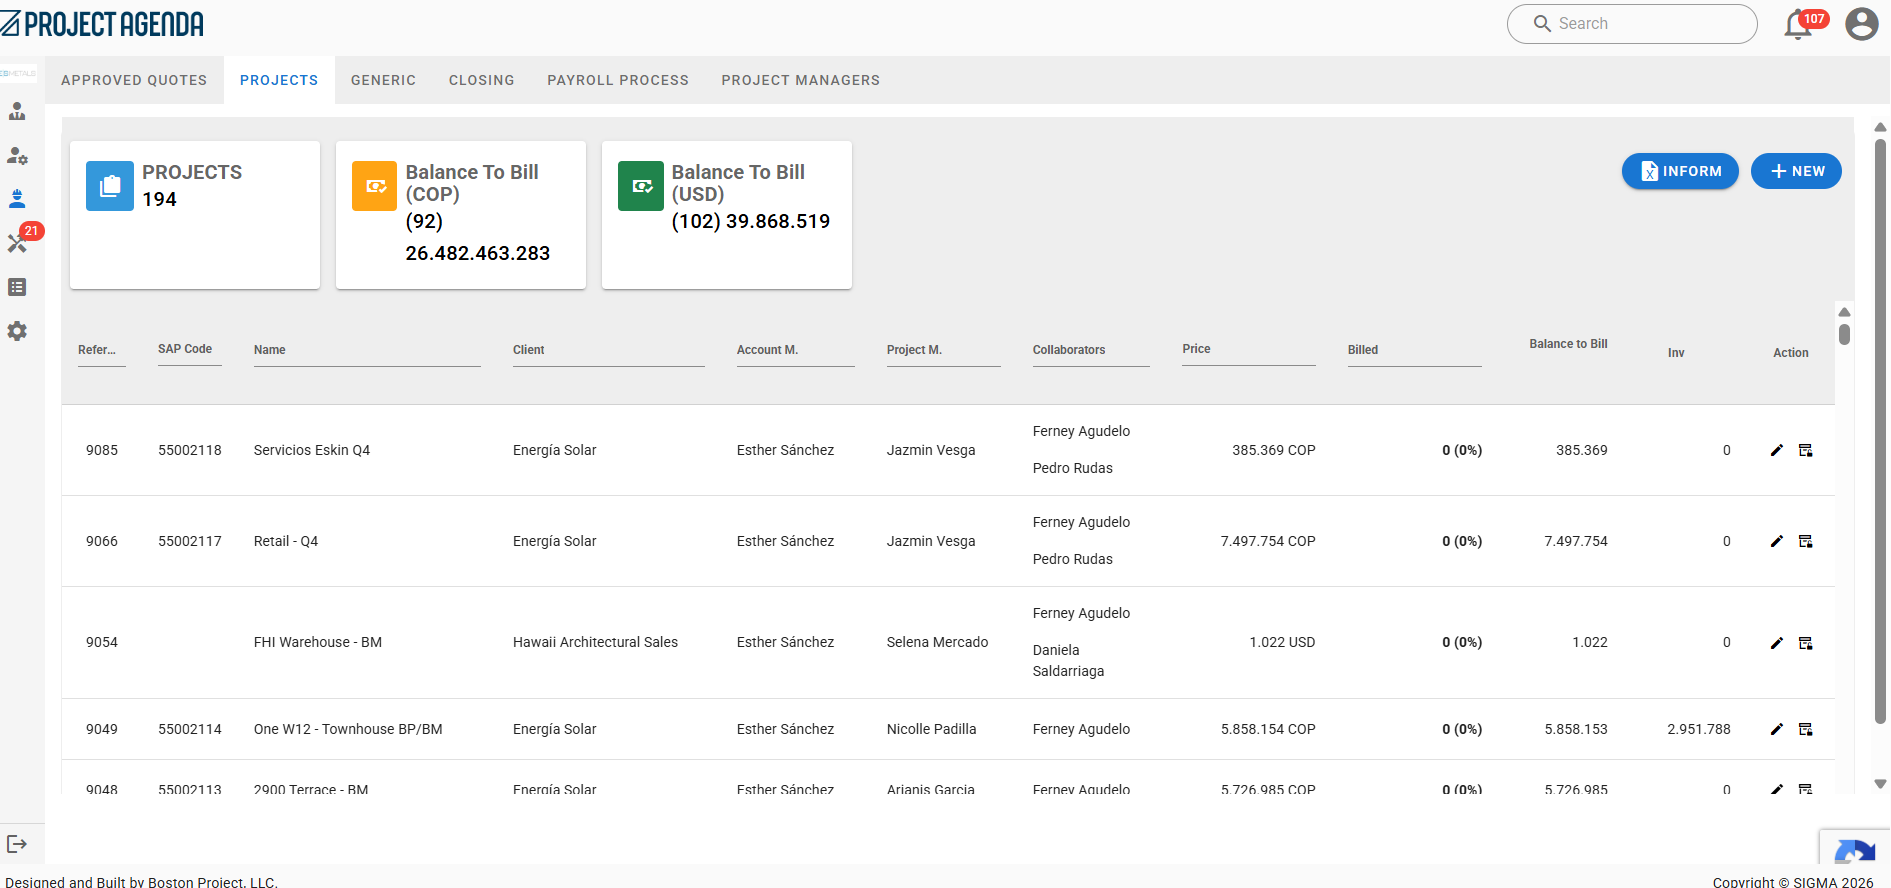
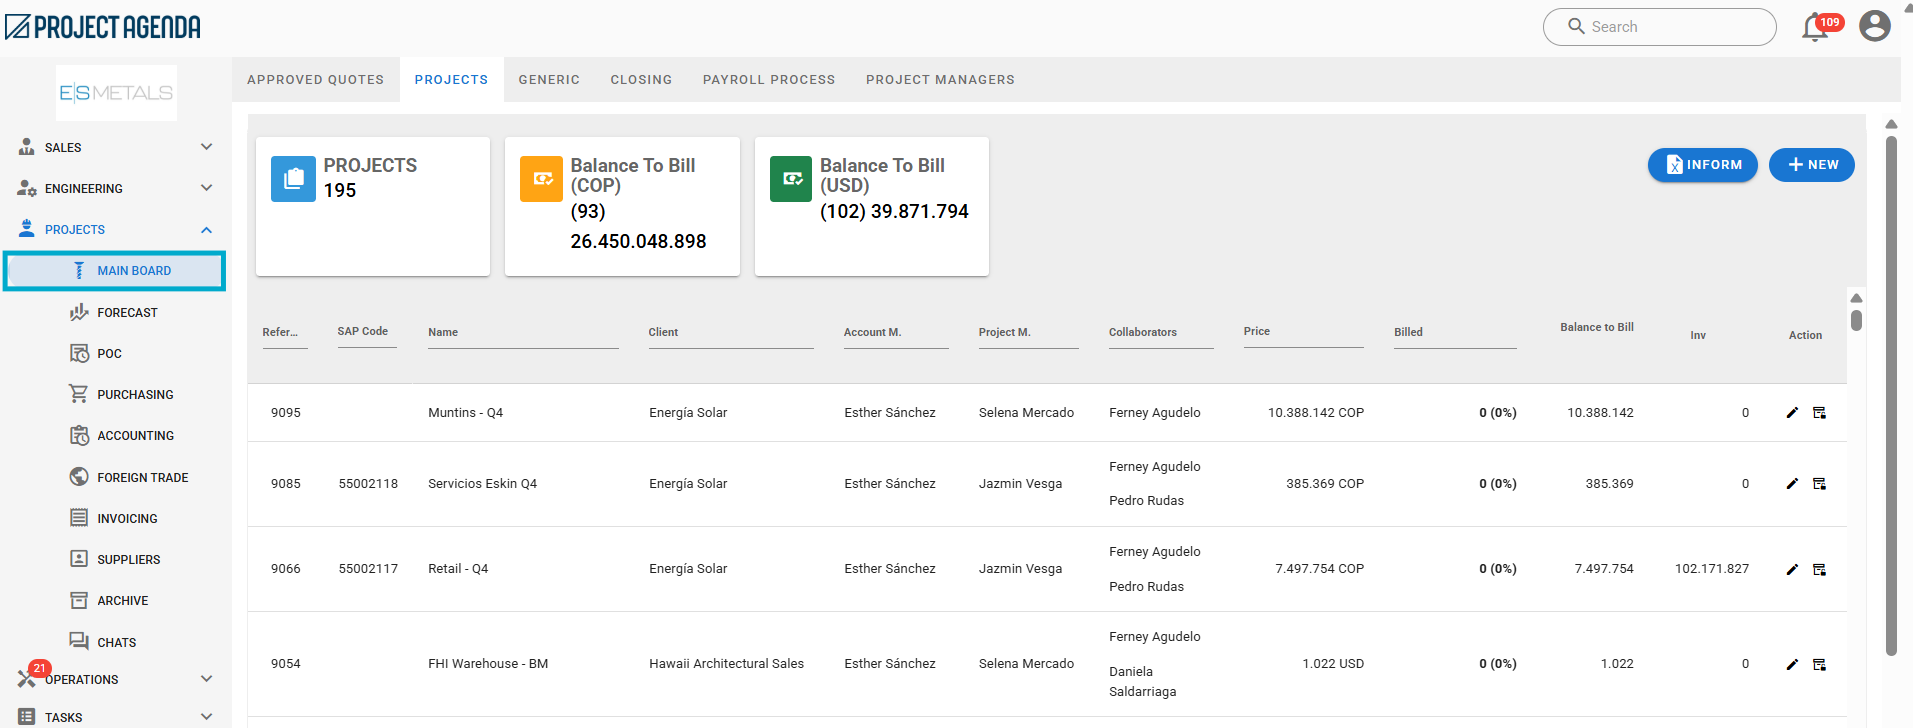
Reemplazar las capturas de Gestión de Proyectos
Nuevo juego de ocho capturas tomadas de la guía del ecosistema: asignación de
ingenieros, main board, detalle del proyecto, work orders y su detalle con
planos, forecast, solicitudes de compra e indicadores.

diff --git a/contenido/contenido.js b/contenido/contenido.js
@@ -26,7 +26,7 @@ window.ESM_CONTENIDO = {
      conservando el mismo nombre de archivo. Obliga a los navegadores a
      descargar la versión nueva en vez de mostrar la que tenían guardada.
      ---------------------------------------------------------------------- */
-  version: "2026-09-09",
+  version: "2026-09-09b",
 
   /* ----------------------------------------------------------------------
      1. MARCA
@@ -187,22 +187,22 @@ window.ESM_CONTENIDO = {
                Para agregar otra: copie un bloque { archivo, titulo } y ponga
                una coma al final del anterior. */
             imagenes: [
-              { archivo: "medios/imagenes/pa-gp-01-asignacion-ingenieria.png",
-                titulo:  "Asignación de pendientes · área de Ingeniería, con la carga horaria de cada ingeniero" },
+              { archivo: "medios/imagenes/pa-gp-01-asignacion-ingenieros.png",
+                titulo:  "Asignación de ingenieros · pendientes por asignar y carga horaria semanal de cada ingeniero" },
               { archivo: "medios/imagenes/pa-gp-02-main-board-proyectos.png",
-                titulo:  "Main Board de proyectos · saldo por facturar en COP y USD" },
+                titulo:  "Main Board de proyectos · precio, facturado y saldo por facturar de cada proyecto, en COP y USD" },
               { archivo: "medios/imagenes/pa-gp-03-detalle-proyecto.png",
-                titulo:  "Detalle del proyecto · cliente, account manager, project manager y colaboradores" },
-              { archivo: "medios/imagenes/pa-gp-04-gestion-compras.png",
-                titulo:  "Gestión de compras · solicitudes, ítems, responsables y estado" },
-              { archivo: "medios/imagenes/pa-gp-05-work-orders.png",
-                titulo:  "Generación de Work Orders · el sistema almacena los planos y los detalles de fabricación de cada pieza (PDF, DXF, STP) con su ruta de procesos" },
-              { archivo: "medios/imagenes/pa-gp-06-estado-work-orders.png",
-                titulo:  "Estado de las Work Orders en tiempo real · avance de producción y de calidad por proceso, enlazado con el área de Operaciones" },
-              { archivo: "medios/imagenes/pa-gp-07-indicadores-compras.png",
-                titulo:  "Indicadores de compras · nivel de atención y cumplimiento de entregas" },
-              { archivo: "medios/imagenes/pa-gp-08-modulo-contable.png",
-                titulo:  "Módulo contable · facturas con orden de compra y conciliación con SAP" }
+                titulo:  "Detalle del proyecto · cliente, account manager, project manager, precio de contrato, facturado y saldo por facturar" },
+              { archivo: "medios/imagenes/pa-gp-04-work-orders.png",
+                titulo:  "Work Orders del proyecto · órdenes de producción con su estado: enviadas, aprobadas o rechazadas" },
+              { archivo: "medios/imagenes/pa-gp-05-work-order-planos.png",
+                titulo:  "Detalle de la Work Order · ítems de producción con su ruta de procesos y los planos y archivos de fabricación de cada pieza (PDF, DXF, STP)" },
+              { archivo: "medios/imagenes/pa-gp-06-forecast.png",
+                titulo:  "Forecast de proyectos · saldo por facturar, facturado del mes y cumplimiento frente a lo proyectado" },
+              { archivo: "medios/imagenes/pa-gp-07-solicitudes-compra.png",
+                titulo:  "Solicitudes de compra · ítems, responsables, fechas y estado a lo largo del ciclo: cotización, aprobación, compra, tránsito y recepción" },
+              { archivo: "medios/imagenes/pa-gp-08-indicadores-compras.png",
+                titulo:  "Indicadores de compras · nivel de atención a las solicitudes y cumplimiento de entregas por mes" }
             ],
 
             imagen:      "",
